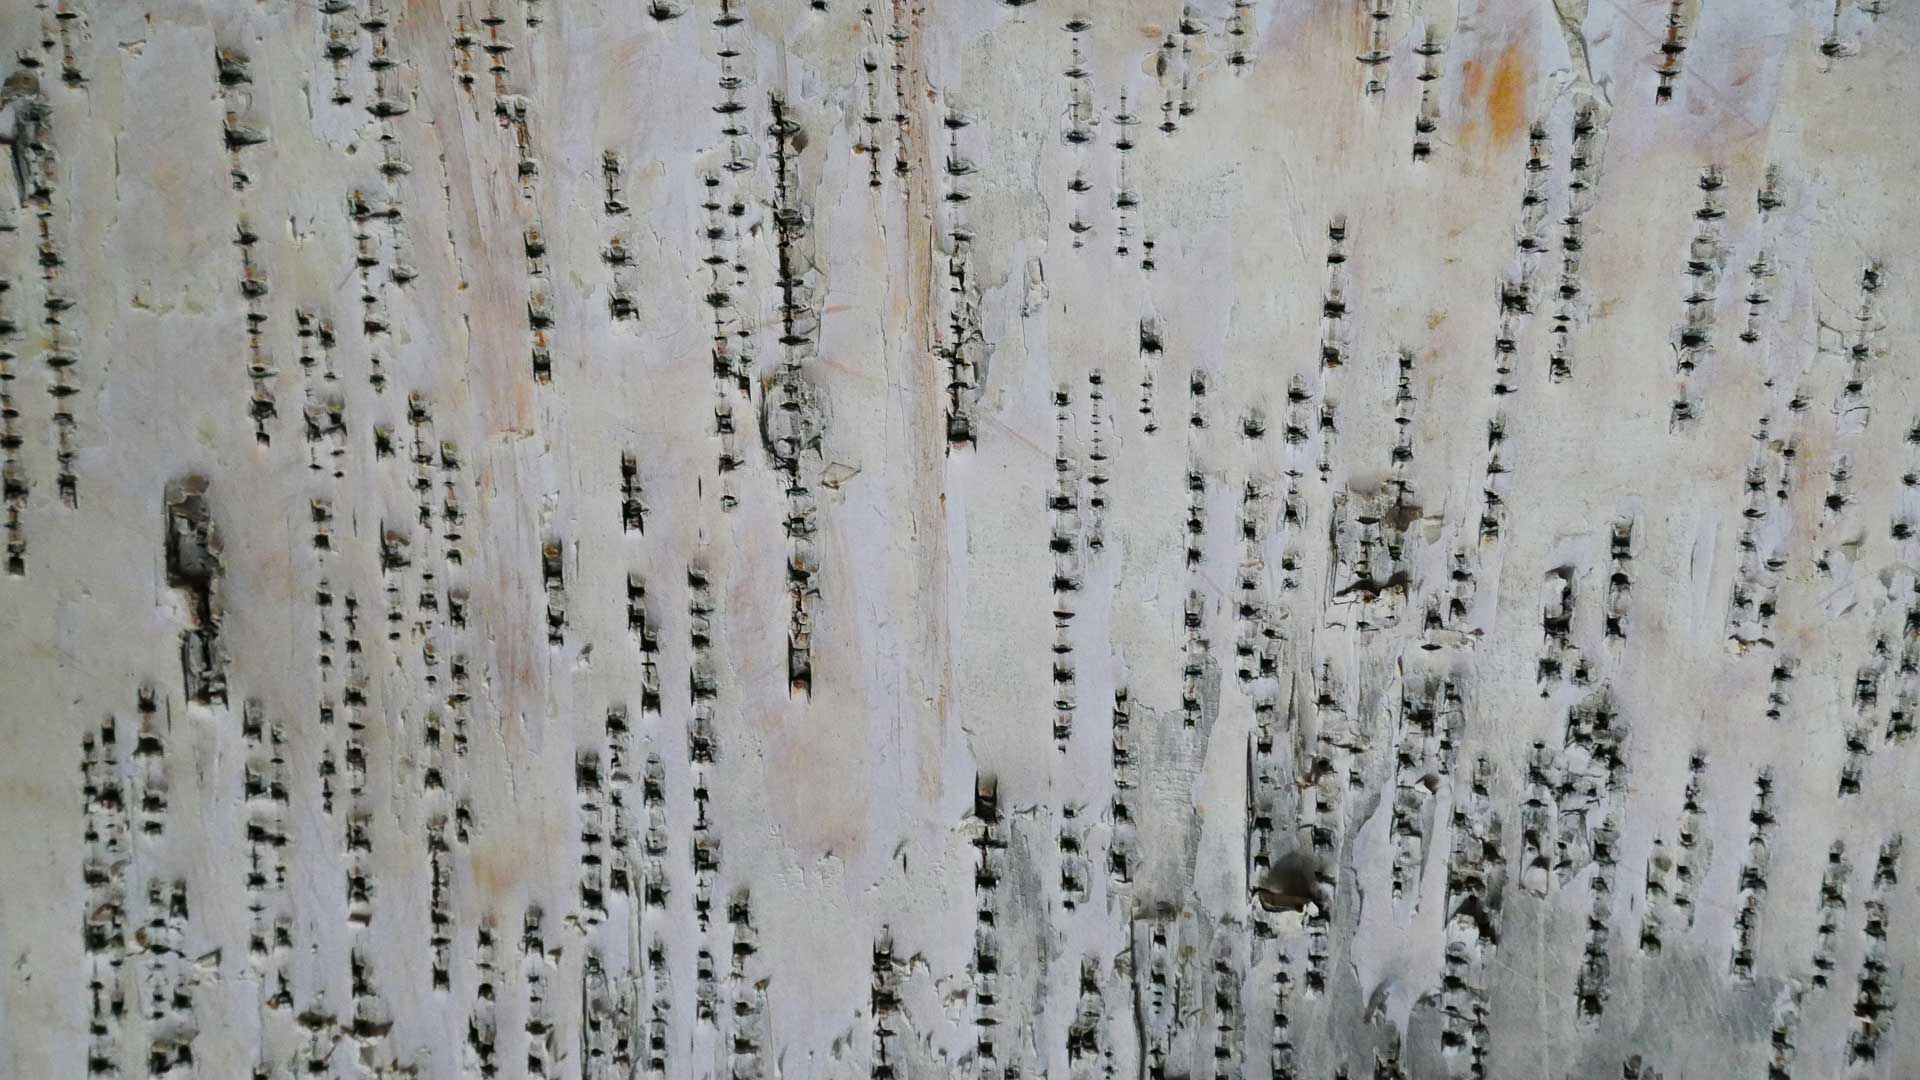
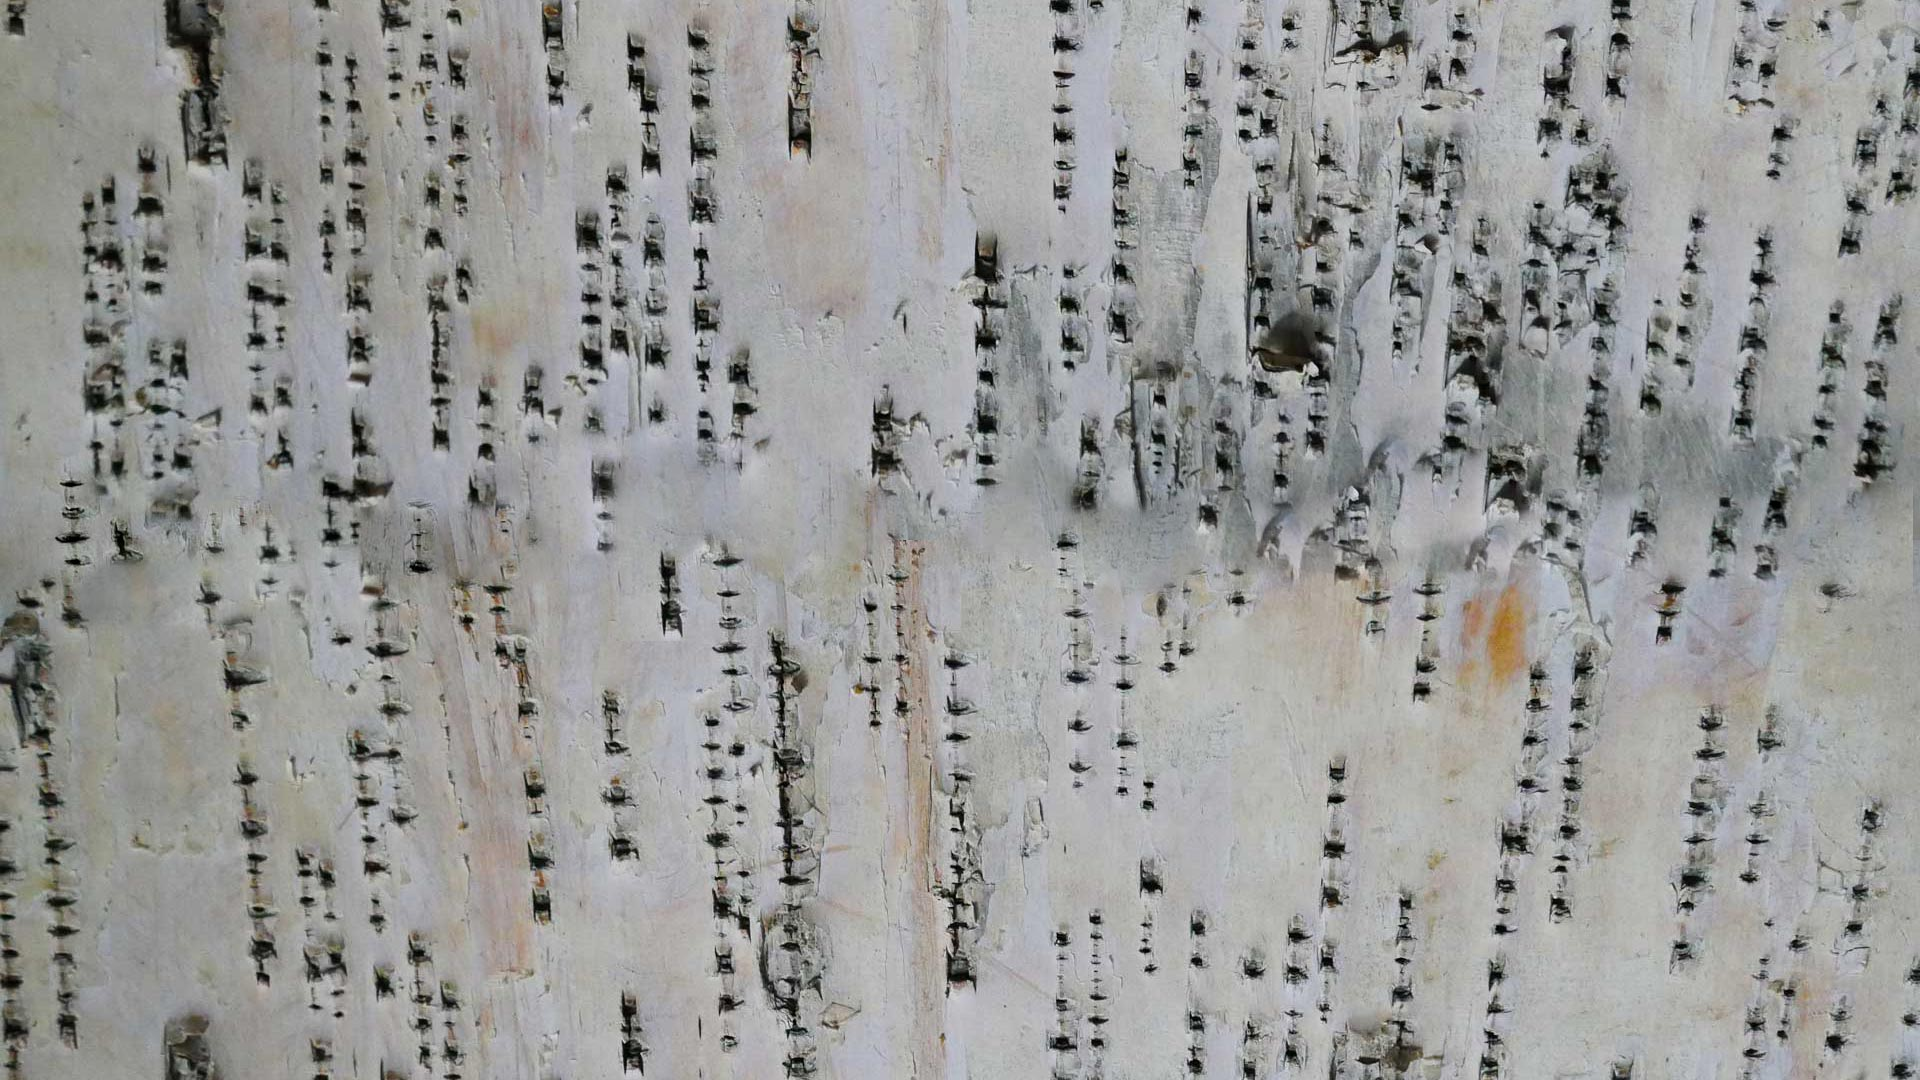
Improve background tiling

diff --git a/public/css/style.css b/public/css/style.css
@@ -8,7 +8,7 @@ color: red;
 body {
   background-color: #FFF4C5;
   background-image: url(/pictures/background.jpg);
-  background-size: 50%;
+  background-size: contain;
 }
 .container {
   text-align: center;
